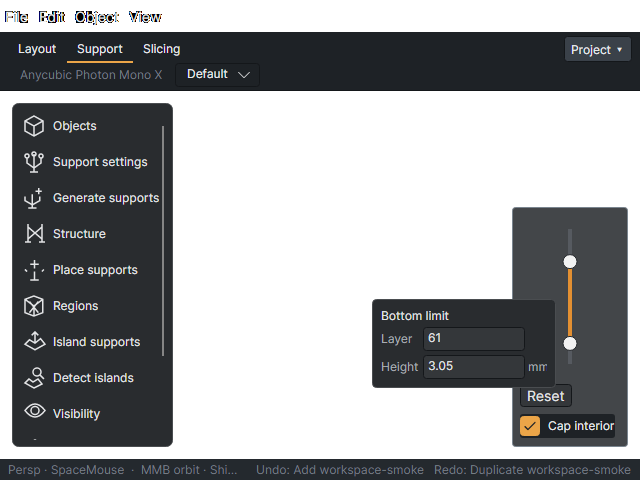
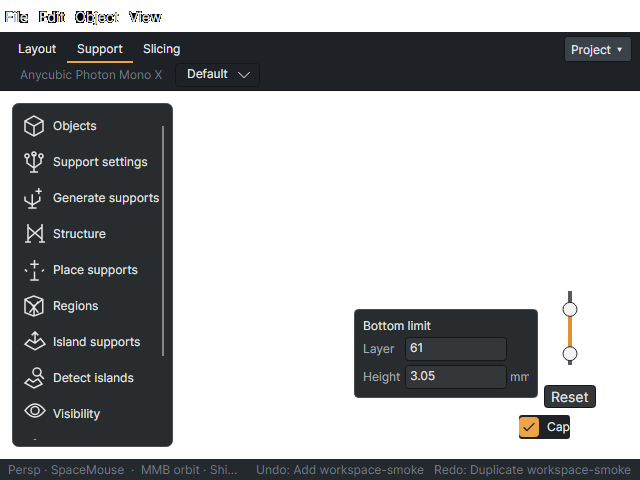
fix(ui): clear view cube and simplify isolation controls

Changed region(s): [[0.5312, 0.4062, 1.0, 0.9375]]

diff --git a/src/Danslicer.App/Views/MainWindow.Isolation.cs b/src/Danslicer.App/Views/MainWindow.Isolation.cs
@@ -82,6 +82,19 @@ public partial class MainWindow
         Closed += (_, _) => _isolationDismissTimer.Stop();
     }
 
+    private void UpdateIsolationPlacement()
+    {
+        var settings = Configuration.AppConfig.Current.Viewport;
+        var scale = RenderScaling;
+        var pixelHeight = (int)(Viewport.Bounds.Height * scale);
+        // Use the same configured cube rectangle as rendering/hit testing, converted to DIPs.
+        // This reserves clearance for larger cubes and scaled displays as well as the default.
+        var cube = Danslicer.Render.ViewCube.Rect((int)(Viewport.Bounds.Width * scale), pixelHeight,
+            scale, settings.ViewCubeSizePixels);
+        var top = settings.ViewCubeEnabled ? (pixelHeight - cube.Y) / scale + 12 : 12;
+        InspectionContent.Margin = new Thickness(0, top, 12, 12);
+    }
+
     private static Control IsolationRow(string label, ExpressionBox input, string unit)
     {
         var row = new Grid { ColumnDefinitions = new ColumnDefinitions("42,*,22") };
@@ -113,7 +126,9 @@ public partial class MainWindow
         var point = IsolationSlider.TranslatePoint(IsolationSlider.ThumbCenter(_isolationThumb), IsolationEditorLayer);
         if (point is not { } anchor) return;
         var height = _isolationEditor.Bounds.Height > 0 ? _isolationEditor.Bounds.Height : 94;
-        Canvas.SetLeft(_isolationEditor, Math.Max(8, anchor.X - _isolationEditor.Width - 14));
-        Canvas.SetTop(_isolationEditor, Math.Clamp(anchor.Y - height / 2, 8, Math.Max(8, IsolationEditorLayer.Bounds.Height - height - 8)));
+        Canvas.SetLeft(_isolationEditor, Math.Max(8, anchor.X - _isolationEditor.Width - 32));
+        var maximumTop = Math.Max(8, IsolationEditorLayer.Bounds.Height - height - 8);
+        var minimumTop = Math.Min(InspectionContent.Margin.Top, maximumTop);
+        Canvas.SetTop(_isolationEditor, Math.Clamp(anchor.Y - height / 2, minimumTop, maximumTop));
     }
 }

diff --git a/src/Danslicer.App/Views/MainWindow.WorkspaceCapture.cs b/src/Danslicer.App/Views/MainWindow.WorkspaceCapture.cs
@@ -31,7 +31,7 @@ public partial class MainWindow
                 await Task.Delay(600);
                 await CheckWorkspace(directory);
                 File.WriteAllText(System.IO.Path.Combine(directory, "workspace-ok.txt"),
-                    "Real MainWindow/VM: STL import, selected object transform expression/undo, duplicate/undo, toolbar labels, mode scoping, all 12 popouts and persistent Support isolation rail, handle-hover layer/mm editing, pointer drag commit/cancel and delayed dismissal, real print/settings bindings, editor Escape, viewport Escape, invoking-button focus, resize bounds, section reorder and expansion, session project open/save history, failed-open status, narrow 640x480 layout and 100/150/200 density captures passed. Offscreen rendering omits the native OpenGL composition surface; no physical input, monitor transition or screen-reader claim.");
+                    "Real MainWindow/VM: STL import, selected object transform expression/undo, duplicate/undo, toolbar labels, mode scoping, all 12 popouts and persistent panel-free Support isolation rail with cube clearance/centered Reset/Cap label, handle-hover layer/mm editing, pointer drag commit/cancel and delayed dismissal, real print/settings bindings, editor Escape, viewport Escape, invoking-button focus, resize bounds, section reorder and expansion, session project open/save history, failed-open status, narrow 640x480 layout and 100/150/200 density captures passed. Offscreen rendering omits the native OpenGL composition surface; no physical input, monitor transition or screen-reader claim.");
             }
             catch (Exception ex)
             {

diff --git a/src/Danslicer.App/Views/MainWindow.IsolationCapture.cs b/src/Danslicer.App/Views/MainWindow.IsolationCapture.cs
@@ -17,6 +17,12 @@ public partial class MainWindow
         static void Key(Control control, Key key) => control.RaiseEvent(new KeyEventArgs { RoutedEvent = KeyDownEvent, Key = key });
         async Task Layout() { await Task.Delay(80); UpdateLayout(); PositionIsolationEditor(); }
         var clip = ViewModel!.SupportClip;
+        Require(InspectionContent.Background is null && InspectionContent.BorderThickness == default(Thickness), "Isolation must have no enclosing panel background or border");
+        Require(IsolationResetButton.HorizontalAlignment == Avalonia.Layout.HorizontalAlignment.Center, "Reset must be centered");
+        Require(IsolationCapCheckBox.Content?.ToString() == "Cap", "Checkbox label must be Cap");
+        var cube = Danslicer.Render.ViewCube.Rect((int)(Viewport.Bounds.Width * RenderScaling), (int)(Viewport.Bounds.Height * RenderScaling), RenderScaling, Configuration.AppConfig.Current.Viewport.ViewCubeSizePixels);
+        var cubeBottom = ((int)(Viewport.Bounds.Height * RenderScaling) - cube.Y) / RenderScaling;
+        Require(!Configuration.AppConfig.Current.Viewport.ViewCubeEnabled || InspectionContent.Margin.Top >= cubeBottom + 12, "Isolation must clear the view cube");
         Require(InspectionContent.ZIndex > SupportsToolPopup.ZIndex, "Isolation must remain above tool popouts");
         Require(InspectionContent.IsEffectivelyVisible, "Support isolation rail must always show");
         Require(!_workspaceToolbar.GetVisualDescendants().OfType<Button>().Any(b => AutomationProperties.GetName(b) == "Layer isolation"), "Isolation must not have a toolbar button");

diff --git a/src/Danslicer.App/Views/MainWindow.axaml.cs b/src/Danslicer.App/Views/MainWindow.axaml.cs
@@ -629,6 +629,7 @@ public partial class MainWindow : Window
 
     private void OnPreferencesSaved()
     {
+        UpdateIsolationPlacement();
         Viewport.RequestRedraw();
         RefreshWindowKeymap();
     }
@@ -651,6 +652,7 @@ public partial class MainWindow : Window
         OutlinesMenuItem.IsChecked = viewport.OutlinesEnabled;
         FxaaMenuItem.IsChecked = viewport.FxaaEnabled;
         PlateShadowsMenuItem.IsChecked = viewport.PlateShadowsEnabled;
+        UpdateIsolationPlacement();
         SyncViewSettingsPopup();
     }
 

diff --git a/src/Danslicer.App/Views/MainWindow.Workspace.cs b/src/Danslicer.App/Views/MainWindow.Workspace.cs
@@ -141,6 +141,7 @@ public partial class MainWindow
     }
     private void PositionWorkspacePopouts()
     {
+        UpdateIsolationPlacement();
         var bounds = ViewportSurface.Bounds;
         var narrow = bounds.Width < 950;
         Grid.SetRow(MachineSummary, narrow ? 1 : 0);

diff --git a/docs/ui-refresh/task-02.md b/docs/ui-refresh/task-02.md
@@ -67,3 +67,10 @@ Reproduce focused tests: `dotnet test tests/Danslicer.Tests -c Release --no-rest
 
 ### Exact refinement checkpoint
 Implementation/evidence committed as 070a5a8d1d4cf37f4ce813644903f87f01934ffe on codex/ui-refresh-02 in C:/Users/plane/.codex/worktrees/3713/Danslicer-chatgpt. This supersedes prior handoff hashes/13-popout/isolation-tool descriptions above. RESUME now describes the final Support-only right rail and task-03 boundary. Final handoff is the following documentation-only commit at branch HEAD; exact hash in final response. Working tree should be clean after that commit. No subsequent task or merge.
+
+## Latest screenshot refinement — authorized
+User requested: clear the 3D cube, remove the isolation background panel/border, center Reset under the slider, shorten checkbox to Cap. Start from clean 504c385cf4197408e81b8013283d6afa95bcbdf1 on codex/ui-refresh-02, same C:/Users/plane/.codex/worktrees/3713/Danslicer-chatgpt worktree. Plan: derive top clearance from the renderer's shared cube rectangle/configuration, remove panel visuals, retain hover editors, center Reset and relabel checkbox. Verify normal/narrow native layout and build; no renderer changes.
+
+### Screenshot refinement — verified
+Completed all four comments: isolation rail has no background/border, Reset is centered under the slider, checkbox says Cap, and top clearance uses ViewCube.Rect (the shared render/hit-test rectangle) with a 12-DIP gap instead of a fixed offset. Refreshes on layout and saved cube preferences; handles cube-size/DPI configuration without renderer changes. Removed the enclosing panel's distracting general tooltip. Hover card stays below the cube and has enough horizontal clearance to avoid centered Reset in narrow windows.
+Changed: MainWindow.axaml, MainWindow.axaml.cs, MainWindow.Workspace.cs, MainWindow.Isolation.cs, native capture assertions/results and screenshots. Existing behavior/commands/state unchanged. Release app build passed (existing ViewportControl nullable warnings only on final build); complete native main capture exited 0, including the four new layout assertions and prior isolation/workspace interactions. Inspected normal/narrow screenshots. No new unit tests or full-suite rerun for this layout-only refinement; prior 87 tests remain historical. Offscreen captures omit the GL cube/model surface, so cube clearance was verified against the shared cube rectangle, not a physical screen capture. Physical DPI/mouse limits unchanged. `git diff --check` passed. Same worktree/branch, last good prior handoff 504c385cf4197408e81b8013283d6afa95bcbdf1; implementation commit follows. Task 03 stays queued.

diff --git a/docs/ui-refresh/RESUME.md b/docs/ui-refresh/RESUME.md
@@ -29,3 +29,5 @@ Limits: offscreen native-window captures omit the GL composition surface (black 
 ## Next action / task 03
 User reviews this task directly. Do not create later tasks or implement later scope here. After approval, task 03 starts from exact final HEAD in a separate worktree and reads START, SPEC, TASKS, task-01 and task-02.
 Task 03 owns durable toolbar/section/popout-width/recent-project persistence and general production filled-slider/scrub-field/undo integration. Current toolbar/section/recents state is session-only. Isolation layer/mm fields are authorized refinement using the existing clip model, not a general numeric-control migration. Preserve the right-side Support rail exception and two-state cap choice. Task 04 alone owns plate/renderer/AO/cavity work.
+
+Latest authorized screenshot refinement in progress: cube clearance, no isolation background/border, centered Reset, checkbox label Cap. Same worktree/branch; last good 504c385cf4197408e81b8013283d6afa95bcbdf1. See task-02.md.

diff --git a/docs/ui-refresh/SPEC.md b/docs/ui-refresh/SPEC.md
@@ -21,3 +21,5 @@ Review at actual desktop scale, 100/150/200 percent DPI, narrow windows, light/d
 
 ## Latest approved isolation refinement
 In Support mode, layer isolation is always visible on the right, with no toolbar button. This is an explicit exception to removing permanent right settings panels. Replace fixed top/bottom edit boxes with a compact popout left of the hovered slider handle, displaying editable layer number and height in mm. Follow the handle; keep open across handle/card hover, drag and keyboard editing, with a short dismissal delay to cross the gap. Cap interior is a two-state checkbox, default on; honor the user's saved on/off selection.
+
+Latest screenshot correction: the Support isolation slider sits below the view cube with clear spacing, has no enclosing background panel or border, centers Reset below the slider, and labels its two-state checkbox "Cap". Handle-following editors remain unchanged.
